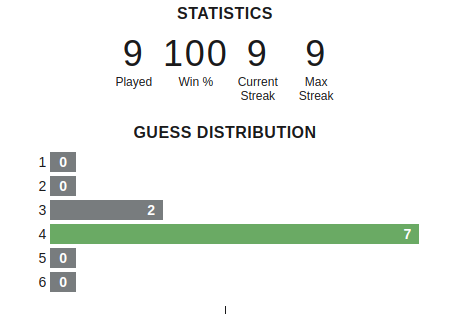
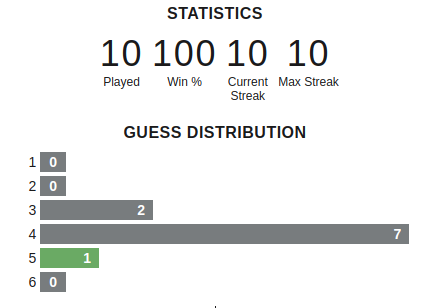
blah

diff --git a/README.md b/README.md
@@ -32,6 +32,14 @@
 
 ![stats](stats.png)
 
+27/01/22: Wordle 222 5/6
+
+🟨⬜⬜⬜⬜<br/>
+⬜🟨🟨⬜⬜<br/>
+⬜⬜⬜🟨🟩<br/>
+🟨🟨⬜⬜🟩<br/>
+🟩🟩🟩🟩🟩<br/>
+
 26/01/22: Wordle 221 4/6
 
 ⬜⬜⬜⬜⬜<br/>
